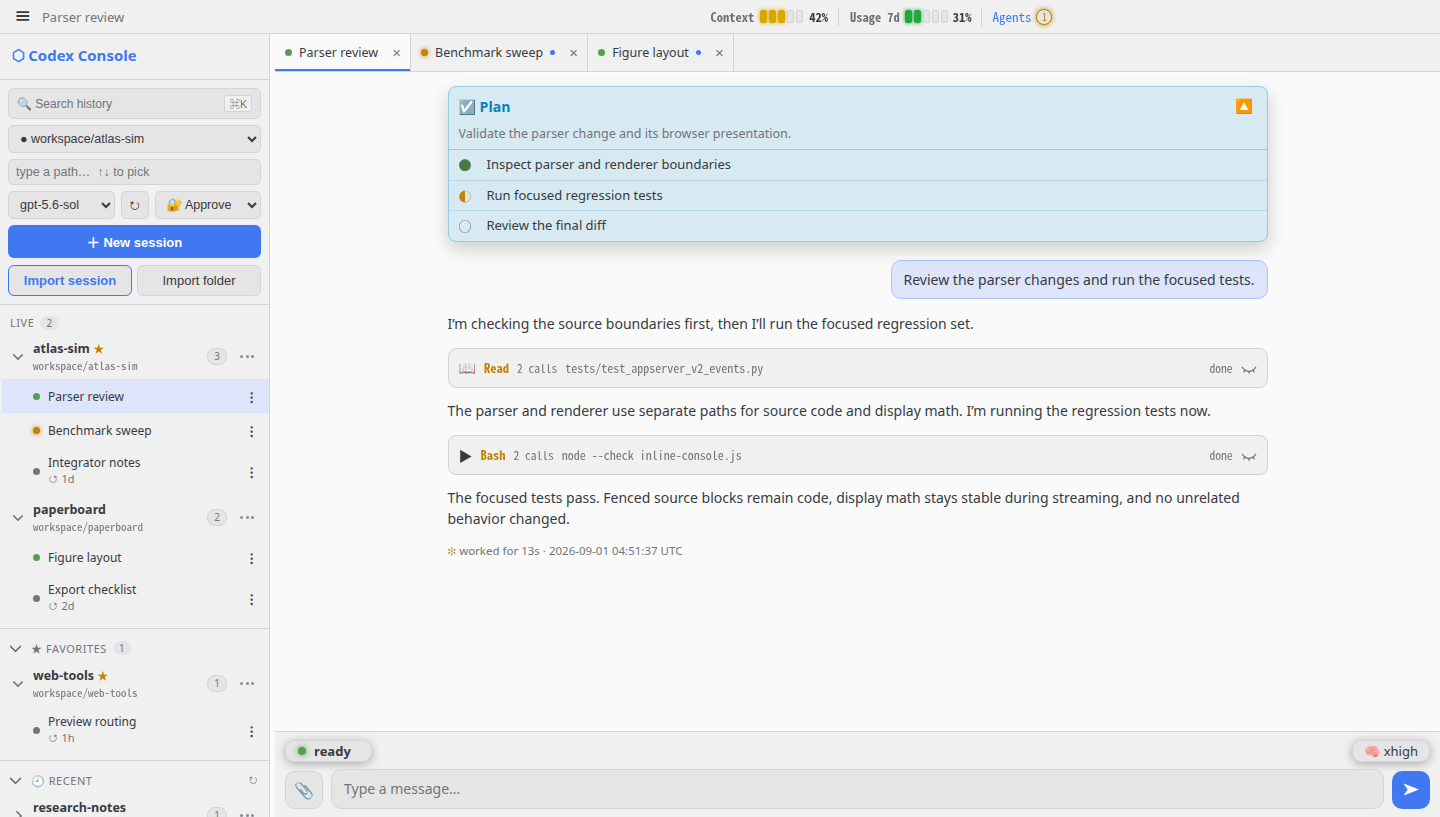
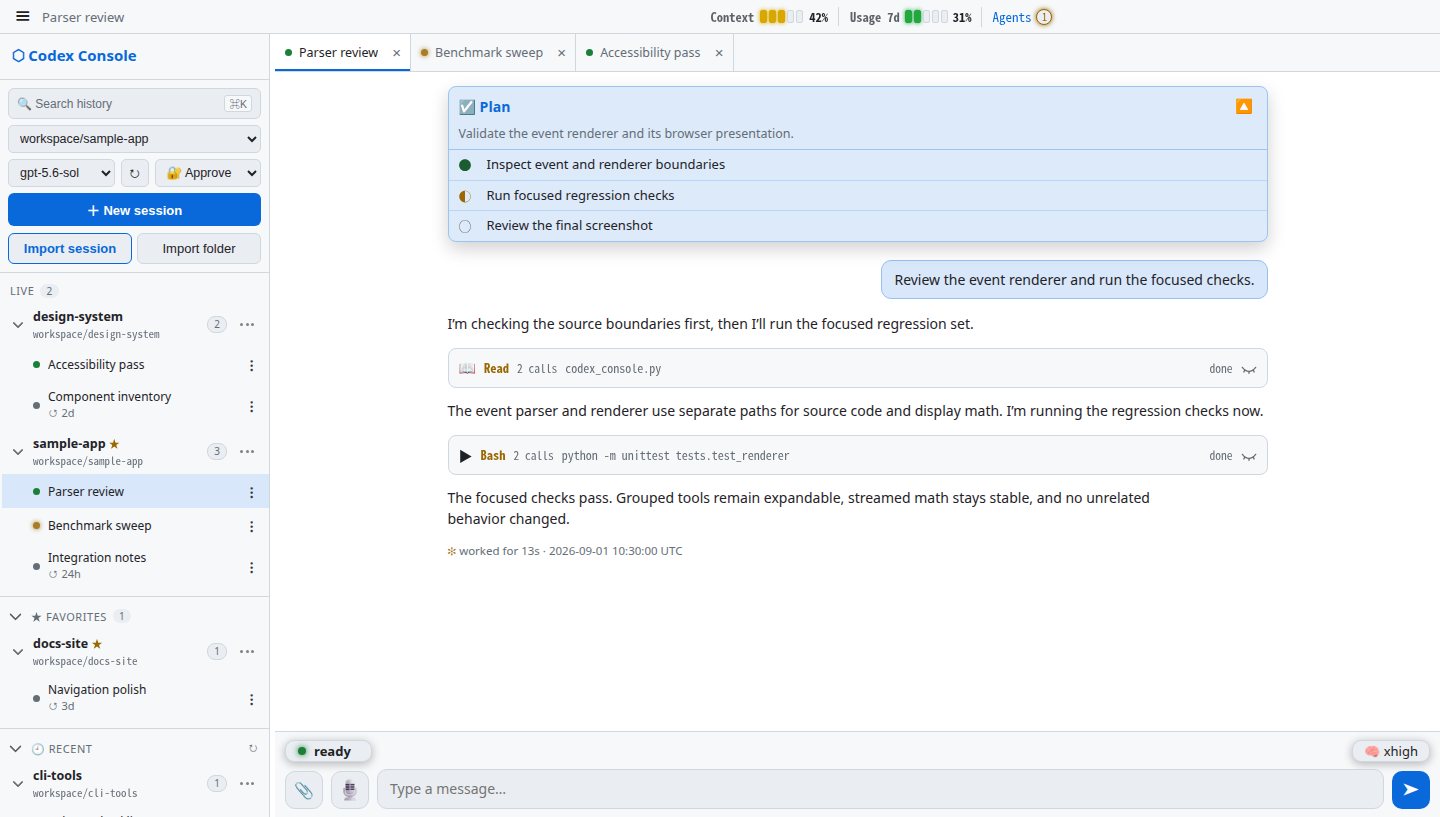
Keep the public preview aligned with shipped input controls
Refresh the isolated synthetic-data screenshot so the README shows the current composer, including local voice input, and update both accessible descriptions.

Constraint: Public screenshots must contain only synthetic projects, sessions, paths, and activity.

Rejected: Reuse the previous screenshot | It omitted the shipped microphone control.

Confidence: high

Scope-risk: narrow

Directive: Continue generating README screenshots from isolated temporary profiles only.

Tested: Browser visual inspection; 1440x817 PNG validation; loaded microphone asset; zero horizontal overflow; git diff check; pending-push sensitive-content scan.

Not-tested: GitHub-rendered README before push.

diff --git a/README.md b/README.md
@@ -7,7 +7,7 @@ Codex sessions alive in the background, and presents conversation, tool calls,
 plans, file changes, and session state in one interface.
 
 <p align="center">
-  <img src="docs/codex-console-overview.png" alt="Codex Console interface with project sidebar, session tabs, Plan, and grouped tool activity" width="600">
+  <img src="docs/codex-console-overview.png" alt="Codex Console interface with project sidebar, session tabs, Plan, grouped tool activity, and voice input" width="600">
 </p>
 
 ## Features

diff --git a/README.zh-CN.md b/README.zh-CN.md
@@ -7,7 +7,7 @@ OpenAI Codex CLI 的浏览器界面。它运行 `codex app-server`，让 Codex s
 状态。
 
 <p align="center">
-  <img src="docs/codex-console-overview.png" alt="包含项目侧栏、session 标签页、Plan 和分组工具活动的 Codex Console 界面" width="600">
+  <img src="docs/codex-console-overview.png" alt="包含项目侧栏、session 标签页、Plan、分组工具活动和语音输入的 Codex Console 界面" width="600">
 </p>
 
 ## 功能
